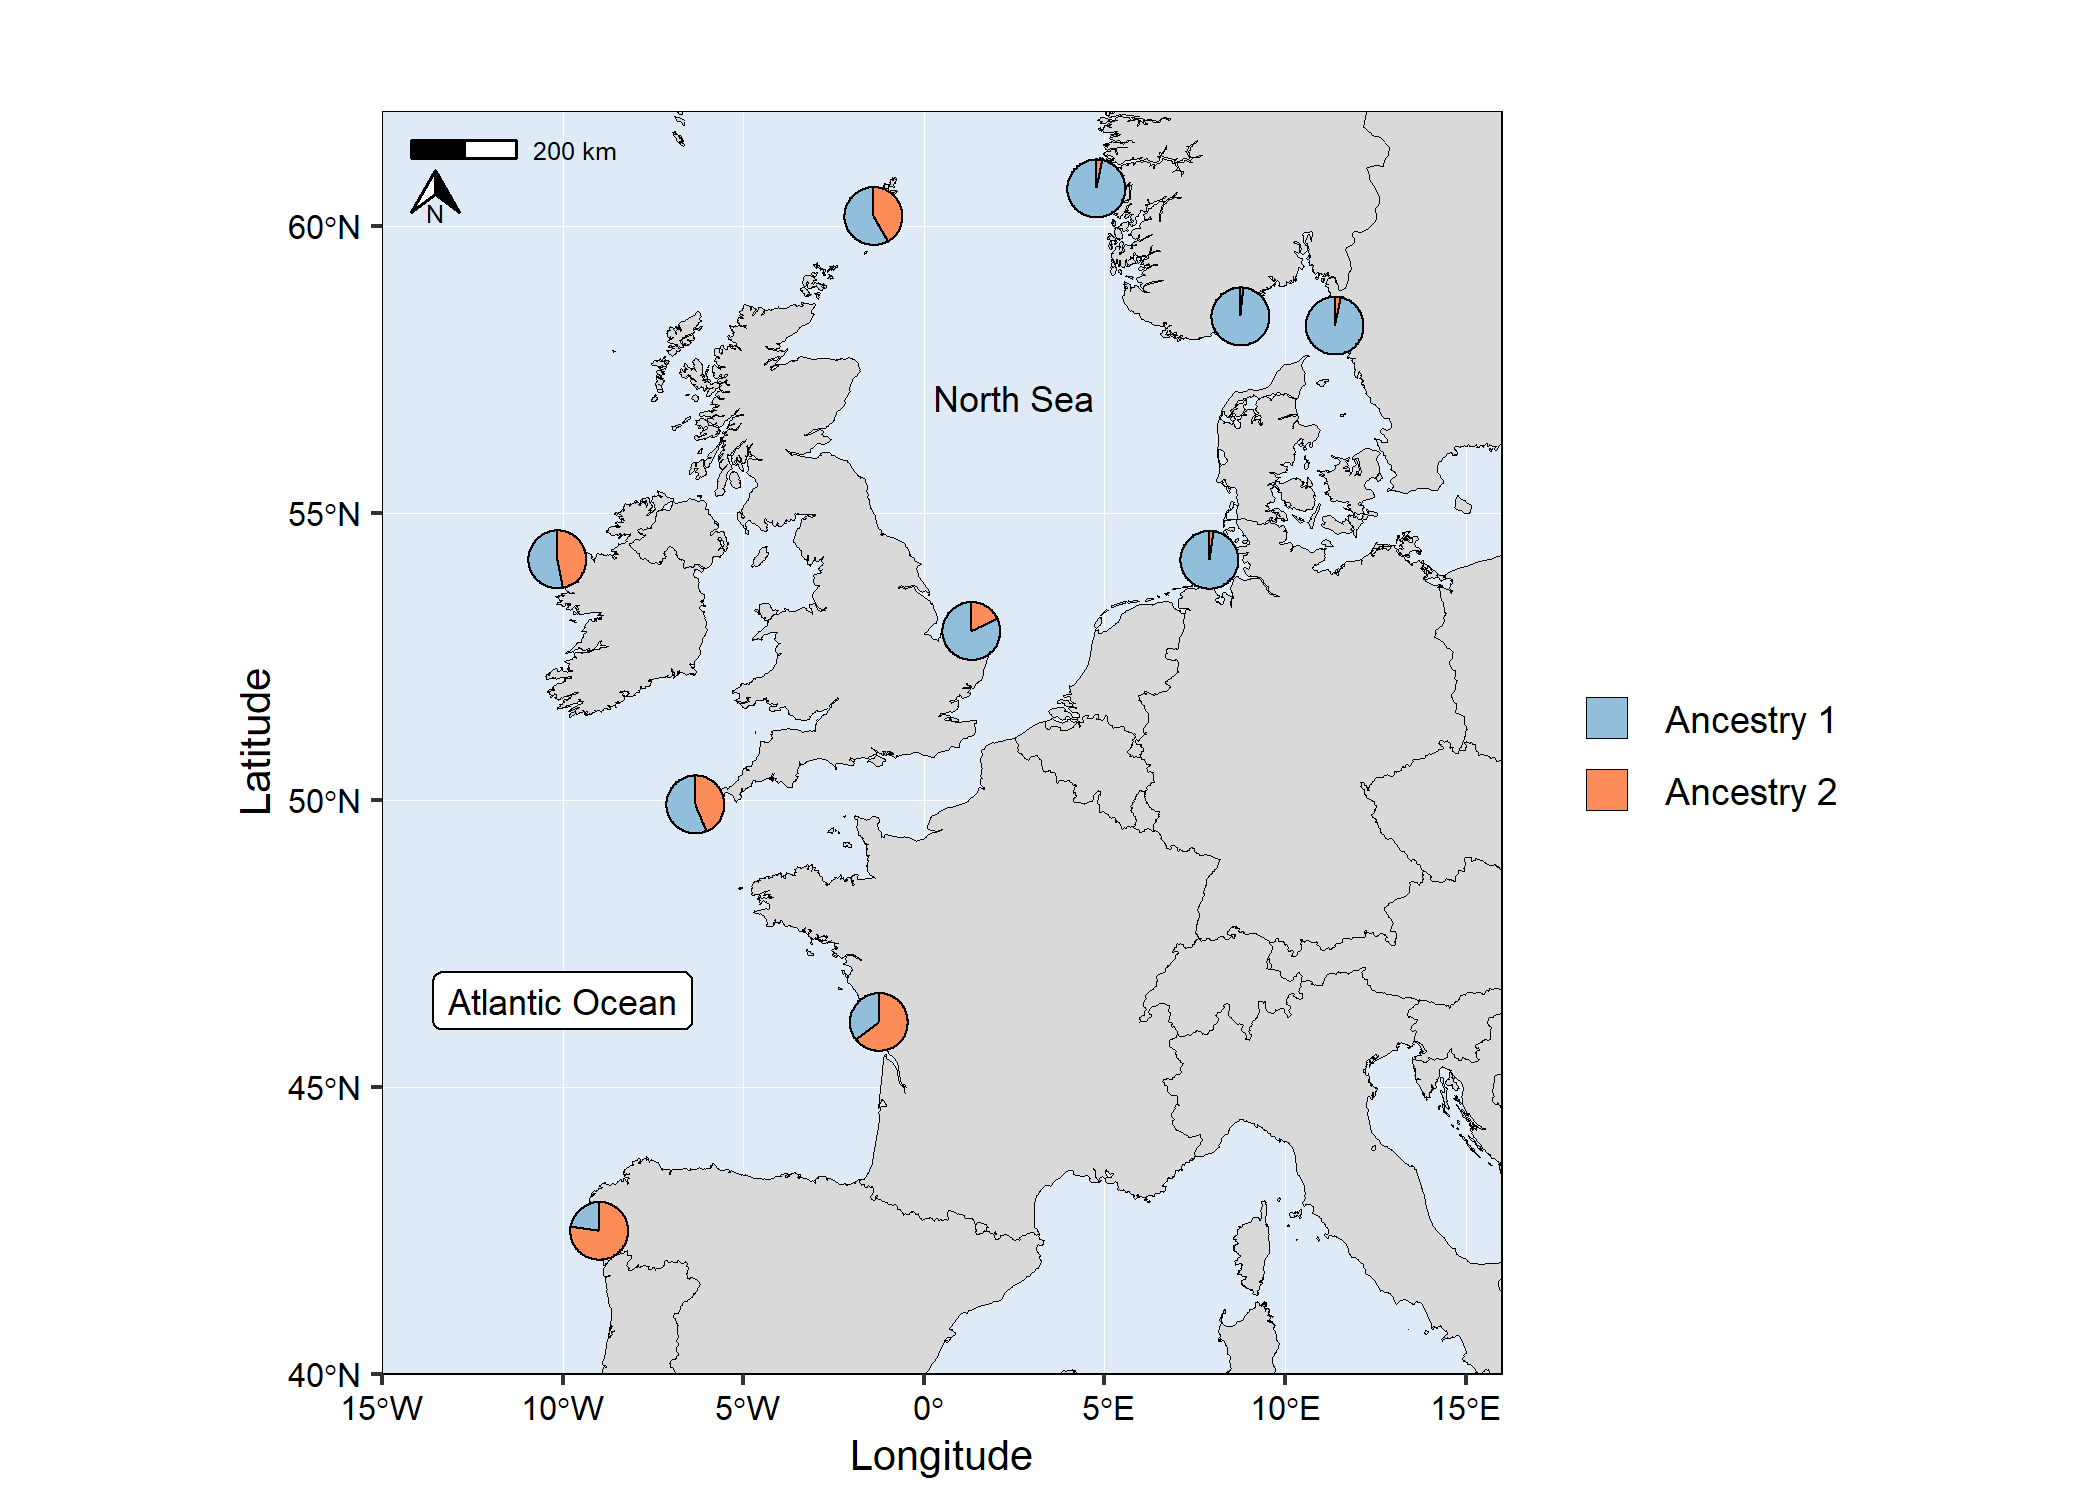
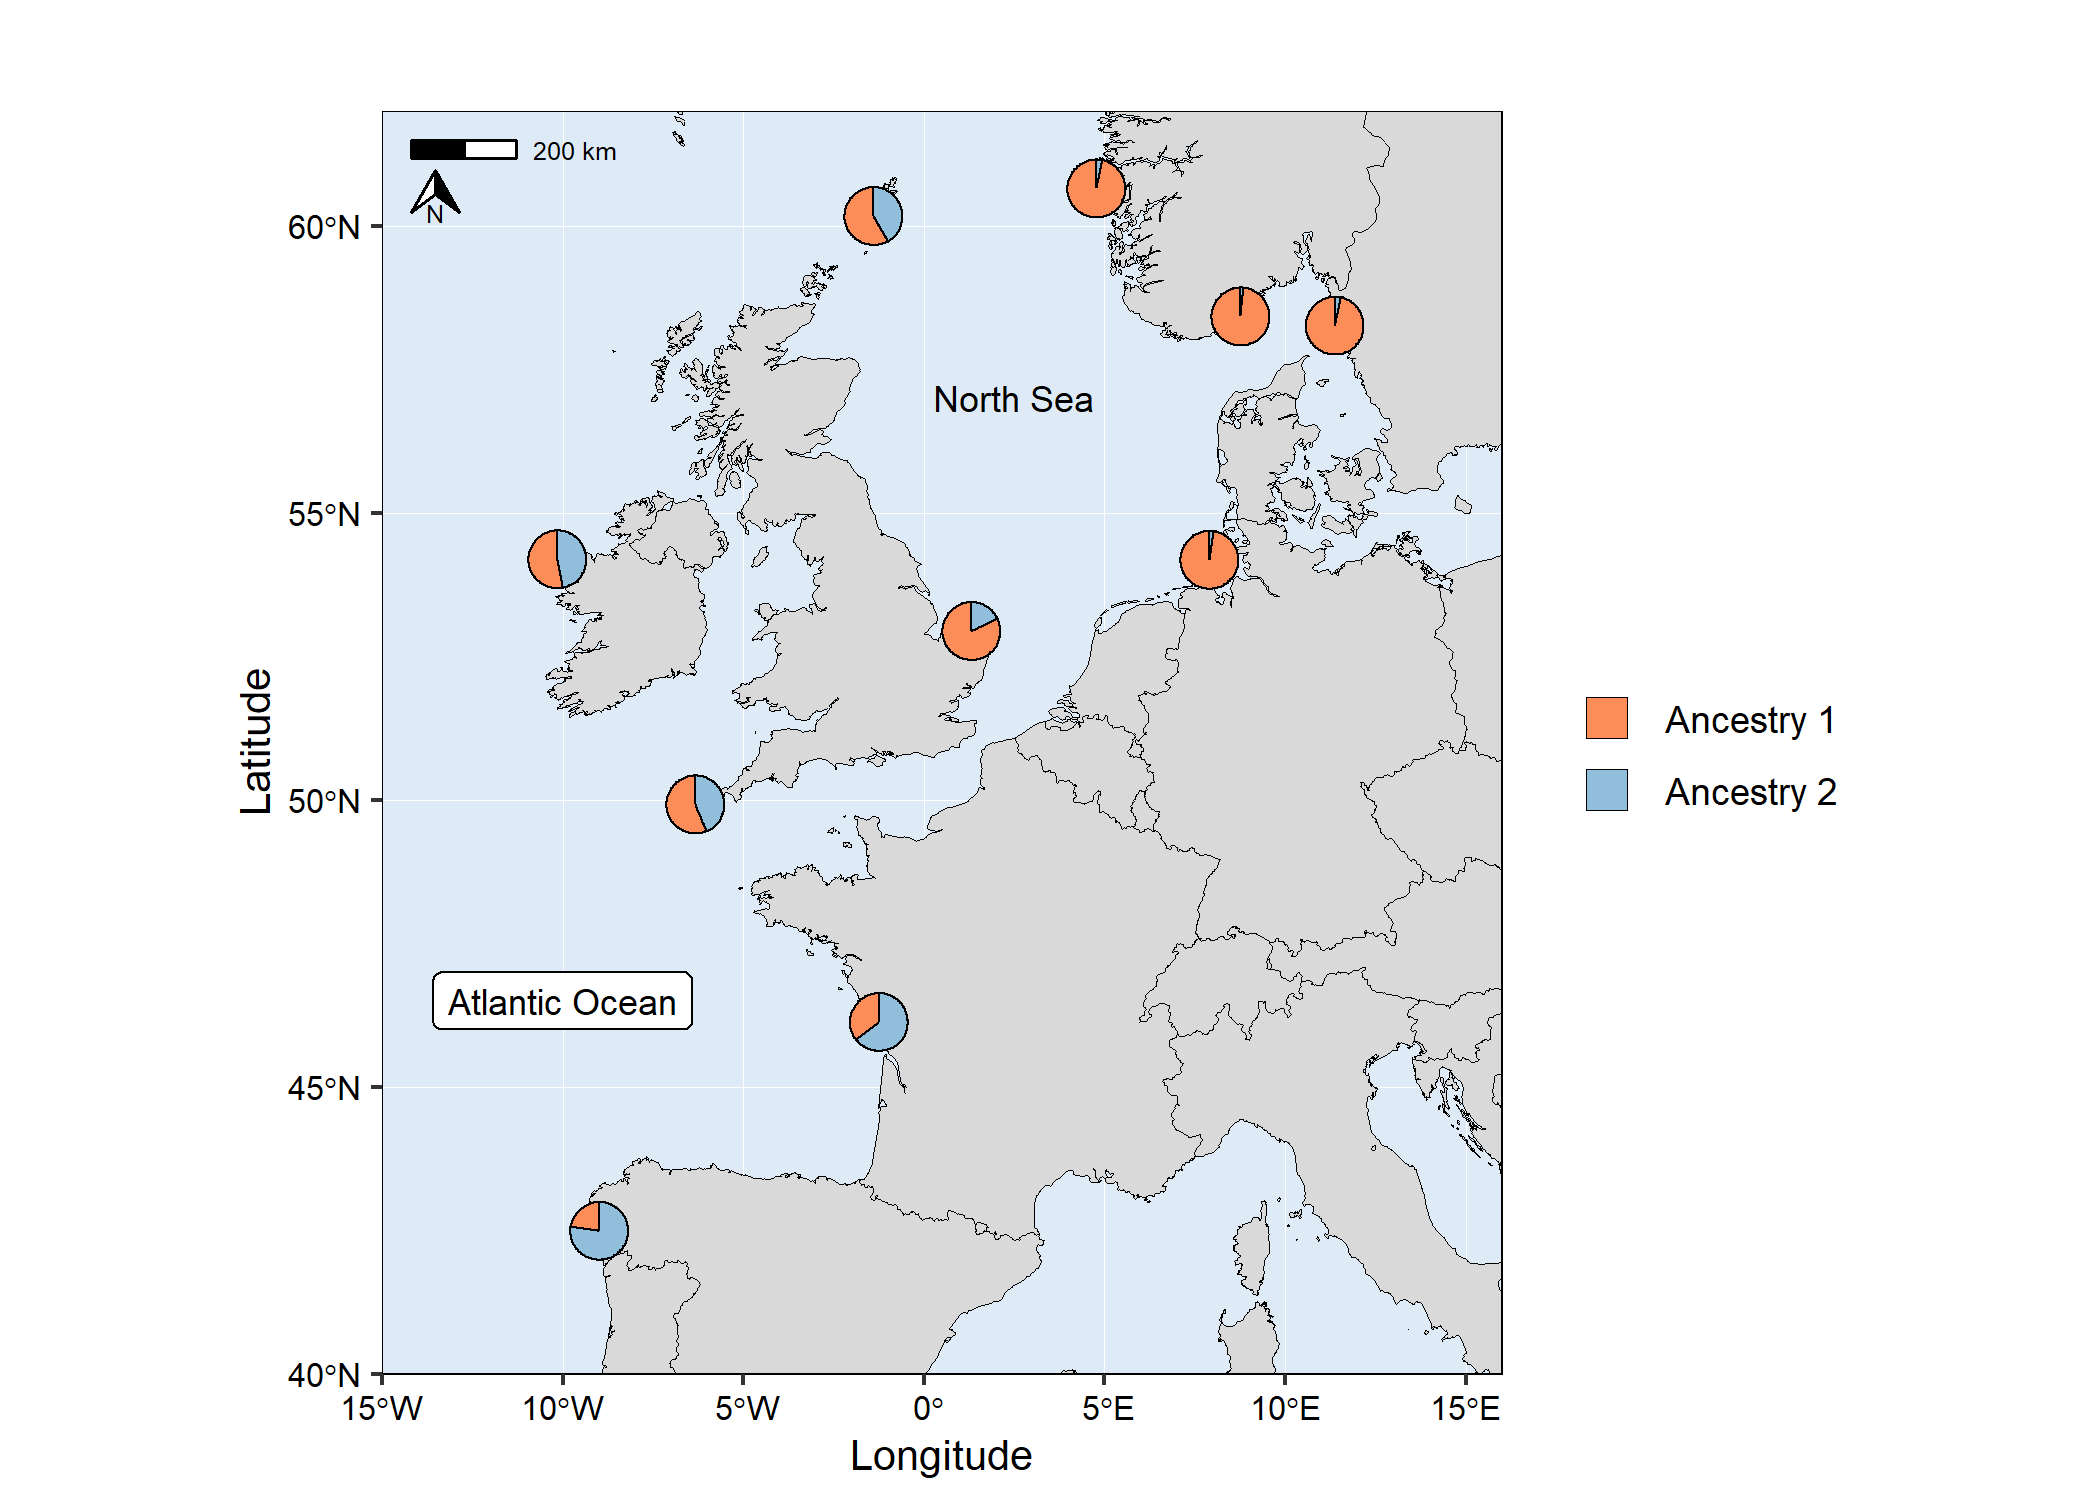
Minor update to readme

diff --git a/README.md b/README.md
@@ -67,7 +67,7 @@ coordinates <- read.csv(file)
 
 # Run mapmixture
 map2 <- mapmixture(admixture3, coordinates,
-  cluster_cols = c("blue","green"),
+  cluster_cols = c("green","blue"),
   cluster_names = c("Group A","Group B"),
   crs = 3035,
   boundary = c(xmin=-15, xmax=16, ymin=40, ymax=62),
@@ -110,7 +110,7 @@ coordinates <- read.csv(file)
 
 # Run mapmixture
 map3 <- mapmixture(admixture1, coordinates,
-  cluster_cols = c("#91bfdb","#fc8d59"),
+  cluster_cols = c("#fc8d59","#91bfdb"),
   cluster_names = c("Ancestry 1","Ancestry 2"),
   crs = 4326,
   boundary = c(xmin=-15, xmax=16, ymin=40, ymax=62),
@@ -162,7 +162,7 @@ coordinates <- read.csv(file)
 
 # Run mapmixture
 map4 <- mapmixture(admixture1, coordinates,
-  cluster_cols = c("#91bfdb","#fc8d59"),
+  cluster_cols = c("#fc8d59","#91bfdb"),
   cluster_names = c("Ancestry 1","Ancestry 2"),
   crs = 4326,
   boundary = c(xmin=-20, xmax=20, ymin=40, ymax=62),
@@ -179,7 +179,7 @@ map4 <- mapmixture(admixture1, coordinates,
 # Traditional structure barplot
 structure_barplot <- structure_plot(admixture1,
   type = "structure",
-  cluster_cols = c("#91bfdb","#fc8d59"),
+  cluster_cols = c("#fc8d59","#91bfdb"),
   site_dividers = TRUE,
   site_order = c(
     "Vigo","Ile de Re","Isles of Scilly","Mullet Peninsula",
@@ -209,7 +209,7 @@ grid.arrange(map4, structure_barplot, nrow = 2, heights = c(4,1))
 # Facet structure barplot
 facet_barplot <- structure_plot(admixture1,
   type = "facet",
-  cluster_cols = c("#91bfdb","#fc8d59"),
+  cluster_cols = c("#fc8d59","#91bfdb"),
   facet_col = 2,
   ylabel = "Admixture proportions",
 )+
@@ -228,11 +228,12 @@ grid.arrange(map4, facet_barplot, ncol = 2, widths = c(3,2))
 
 Use a raster as the basemap:
 
-The raster (TIFF) used in the example below was downloaded from the Natural
+The raster (TIFF) used in the example below was downloaded from Natural
 Earth
 [here](https://www.naturalearthdata.com/downloads/50m-raster-data/50m-natural-earth-1/).
 You need to install the [terra](https://github.com/rspatial/terra)
-package to use this feature. Currently, the `basemap` argument accepts a `SpatRaster` or `sf` object.
+package to use this feature. Currently, the `basemap` argument only
+accepts a `SpatRaster` or `sf` object.
 
 ``` r
 # Load packages
@@ -261,7 +262,7 @@ map5
 Add pie charts to an existing map:
 
 The vector data (shapefile) used in the example below was downloaded
-from Natural England Open Data Geoportal
+from the Natural England Open Data Geoportal
 [here](https://naturalengland-defra.opendata.arcgis.com/datasets/Defra::marine-conservation-zones-england/explore?location=53.749917%2C-5.534585%2C6.27).
 
 ``` r
